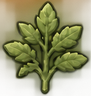
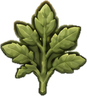
Repaint the build menu, lift the item pictures off their glow, and stack messages above the player card
- prepare-sprite-art.py lifts the wood, stone, berries, herbs and meter icons
  off the soft glow painted behind them, so no murky square shows in a slot.
- The build menu rows use the painted dark slot with the campfire or the tool
  picture for the tier each row would make, and number keys on the count plate.
- The menu never grows past the region banner; the E button hides while it is open.
- Messages are a stack of up to four above the player card (centred above the
  item box on phones) instead of one strip in the middle of the screen.

diff --git a/src/style.css b/src/style.css
@@ -840,8 +840,10 @@ kbd {
   pointer-events: none;
 }
 
-/* The card hugs the left edge of its column and the map the right edge of its own. */
-.game-bottom > .identity {
+/* The card hugs the left edge of its column and the map the right edge of its own. The card sits */
+/* in a wrapper so the messages can stack just above it, wherever the card is. */
+.game-bottom > .identity-area {
+  position: relative;
   justify-self: start;
 }
 
@@ -1029,8 +1031,9 @@ button.slot:hover {
   position: absolute;
   right: 0;
   bottom: calc(100% + 10px);
-  width: 300px;
-  max-height: 70svh;
+  width: 340px;
+  /* The room left between the region's banner (top) and the item box (bottom); past that it scrolls. */
+  max-height: max(180px, calc(100svh - 440px));
   overflow-y: auto;
   padding: 12px;
 }
@@ -1503,12 +1506,24 @@ button.slot:hover {
   color: #fff;
 }
 
-/* A short message such as "+3 wood". It starts invisible and 10px low. */
-.toast {
+/* Short messages such as "+3 wood" stack above the player card, the newest at the bottom. They */
+/* are kept out of the middle of the screen so they never cover the build menu or the E button. */
+.toasts {
   position: absolute;
-  bottom: 286px;
-  left: 50%;
-  transform: translate(-50%, 10px);
+  left: 0;
+  bottom: calc(100% + 6px);
+  display: flex;
+  flex-direction: column;
+  align-items: flex-start;
+  gap: 4px;
+  width: max-content;
+  max-width: min(80vw, 420px);
+  pointer-events: none;
+}
+
+/* One message. It starts invisible and 10px low. */
+.toast {
+  transform: translateY(10px);
   background: #263b31ec;
   color: #f8f5e9;
   padding: 12px 22px;
@@ -1517,16 +1532,13 @@ button.slot:hover {
   font-size: 12px;
   opacity: 0;
   transition: 0.3s;
-  pointer-events: none;
-  text-align: center;
-  max-width: 80vw;
-  width: max-content;
+  text-align: left;
 }
 
 /* When shown, it fades in and slides up into place. */
 .toast.visible {
   opacity: 1;
-  transform: translate(-50%, 0);
+  transform: none;
 }
 
 /* ---- In-game HUD: the painted panels ---- */
@@ -1719,6 +1731,92 @@ button.slot:hover {
   padding: 2px;
 }
 
+.build-menu-title {
+  margin-bottom: 5px;
+  color: #7a552e;
+}
+
+.build-option + .build-menu-title {
+  margin-top: 7px;
+}
+
+/* A row of the menu: a strip of slightly darker paper with a thin brown edge, not a white card, */
+/* so it belongs to the painted paper behind it. */
+.build-option {
+  grid-template-columns: 38px 1fr auto auto;
+  gap: 8px;
+  padding: 3px 8px 3px 4px;
+  border: 1px solid #7a552e4d;
+  border-radius: 4px;
+  background: #7a552e14;
+}
+
+.build-option + .build-option {
+  margin-top: 3px;
+}
+
+.build-option:hover {
+  background: #7a552e30;
+}
+
+.build-option:disabled:hover {
+  background: #7a552e14;
+}
+
+/* Each row's picture sits in the item box's dark painted slot: the painted campfire, or the tool */
+/* at the tier this row would make (ui/hud.js writes the tier on the row). The line icons are not */
+/* drawn. */
+.build-option svg {
+  display: none;
+}
+
+.build-option::before {
+  content: '';
+  width: 38px;
+  height: 38px;
+  background:
+    var(--picture) center / 62% 62% no-repeat,
+    url('../assets/ui/game/item-slot.png') center / 100% 100% no-repeat;
+}
+
+#build-campfire {
+  --picture: url('../assets/world/source/objects/props/campfire.png');
+}
+
+#craft-axe {
+  --picture: url('../assets/ui/game/tool-axe-stone.png');
+}
+
+#craft-axe[data-tier='iron'] {
+  --picture: url('../assets/ui/game/tool-axe-iron.png');
+}
+
+#craft-pickaxe {
+  --picture: url('../assets/ui/game/tool-pickaxe-stone.png');
+}
+
+#craft-pickaxe[data-tier='iron'] {
+  --picture: url('../assets/ui/game/tool-pickaxe-iron.png');
+}
+
+#craft-hammer {
+  --picture: url('../assets/ui/game/tool-hammer-stone.png');
+}
+
+#craft-hammer[data-tier='iron'] {
+  --picture: url('../assets/ui/game/tool-hammer-iron.png');
+}
+
+.build-cost {
+  color: #6b4a2a;
+}
+
+/* While the build menu is open it fills the middle of the screen, where the E button normally */
+/* sits. So the E button waits until the menu closes (the E key itself still works). */
+.game:has(.build-menu:not([hidden])) .interact {
+  display: none;
+}
+
 /* Messages: a cream strip. The wider left slice holds the picture's round wooden boss. */
 .toast {
   border-width: 17px 17px 17px 52px;
@@ -1830,8 +1928,10 @@ button.slot:hover {
   filter: brightness(1.15) drop-shadow(0 3px 6px #1f311b55);
 }
 
-/* The J key on the journal button is drawn on the little count plate. */
+/* The J key on the journal button, and the number keys in the build menu, are drawn on the */
+/* little count plate. */
 .game-actions kbd,
+.build-option kbd,
 .key-strip kbd {
   border: 0;
   padding: 4px 7px 5px;
@@ -2406,8 +2506,14 @@ dialog::backdrop {
   .build-option kbd {
     display: none;
   }
+  /* A phone has little room between the banner and the item box, so the rows drop their small */
+  /* print and the menu is kept shorter; it scrolls by touch when it must. */
   .build-menu {
     width: 270px;
+    max-height: max(180px, calc(100svh - 590px));
+  }
+  .build-option small {
+    display: none;
   }
   .minimap {
     position: absolute;
@@ -2446,8 +2552,18 @@ dialog::backdrop {
     font-size: 10px;
     max-width: 90vw;
   }
-  .toast {
+  /* On phones the card is at the top, so the wrapper steps aside and the messages stack in the */
+  /* middle, above the item box. */
+  .identity-area {
+    display: contents;
+  }
+  .toasts {
+    left: 50%;
     bottom: 334px;
+    transform: translateX(-50%);
+    align-items: center;
+  }
+  .toast {
     font-size: 11px;
   }
   .build-bar {

diff --git a/src/ui/layout.js b/src/ui/layout.js
@@ -234,20 +234,25 @@ export function mountLayout(app) {
       <!-- The bottom bar: the player card on the left, the item box and Build button in the middle,
            and the round map on the right. It is a grid, so the three never overlap. -->
       <div class="game-bottom">
-        <!-- Who you are, the day clock and your survival meters. -->
-        <div class="identity hud-panel">
-          <span id="hud-portrait" class="hud-portrait"></span>
-          <span id="day-dial" class="day-dial" role="img"
-            ><i class="day-dial-face"></i><i class="day-dial-rim"></i><i class="day-dial-pin"></i
-          ></span>
-          <div class="identity-text">
-            <span id="hud-name" class="hud-name"></span
-            ><span id="identity-status" class="identity-status" data-phase="day"
-              ><span class="sun">${icon('sun')}</span><span class="moon">${icon('moon')}</span
-              ><span id="clock"></span
+        <!-- Who you are, the day clock and your survival meters. Short pop-up messages such as
+             "+3 wood" stack up just above the card (ui/hud.js adds and removes them); screen readers
+             announce them too. -->
+        <div class="identity-area">
+          <div id="toasts" class="toasts" role="status"></div>
+          <div class="identity hud-panel">
+            <span id="hud-portrait" class="hud-portrait"></span>
+            <span id="day-dial" class="day-dial" role="img"
+              ><i class="day-dial-face"></i><i class="day-dial-rim"></i><i class="day-dial-pin"></i
             ></span>
-            <div class="meters">
-              ${meter('health', 'Health', healthIconUrl)}${meter('hunger', 'Hunger', hungerIconUrl)}${meter('warmth', 'Warmth', warmthIconUrl)}
+            <div class="identity-text">
+              <span id="hud-name" class="hud-name"></span
+              ><span id="identity-status" class="identity-status" data-phase="day"
+                ><span class="sun">${icon('sun')}</span><span class="moon">${icon('moon')}</span
+                ><span id="clock"></span
+              ></span>
+              <div class="meters">
+                ${meter('health', 'Health', healthIconUrl)}${meter('hunger', 'Hunger', hungerIconUrl)}${meter('warmth', 'Warmth', warmthIconUrl)}
+              </div>
             </div>
           </div>
         </div>
@@ -349,9 +354,6 @@ export function mountLayout(app) {
           ><button data-move="right" aria-label="Move east">→</button>
         </div>
       </div>
-
-      <!-- Short pop-up messages such as "+3 wood". Screen readers announce them too. -->
-      <div id="toast" class="toast" role="status"></div>
     </section>
 
     <!-- Pause menu. Any open dialog pauses the game. -->

diff --git a/src/ui/hud.js b/src/ui/hud.js
@@ -25,6 +25,9 @@ import { canCraft, nextTier, toolName, CRAFT_PREFIX } from '../actions/craft.js'
 import { meterTrends } from '../actions/survive.js';
 import { $ } from './layout.js';
 
+// How many pop-up messages can show at once above the player card; an older one makes room.
+const TOAST_STACK = 4;
+
 // Turns a supply's verb into its "-ing" form for the busy button, e.g. Chop → Chopping.
 const DOING = {
   Chop: 'Chopping',
@@ -166,21 +169,31 @@ function busyLabel(state, animator) {
  * pop up a message, a way to redraw the HUD, and ways to show and hide the controls strip.
  */
 export function createHud(session) {
-  let toastTimer;
   let keyStripTimer;
 
   /**
-   * Shows a short message at the bottom of the screen for about three seconds.
+   * Shows a short message above the player card for about three seconds.
    *
-   * A new message replaces the old one and restarts the timer, so messages never pile up.
+   * Messages stack like sticky notes: a new one is added under the others, and each fades out on
+   * its own timer. Only the newest few are kept (TOAST_STACK), so a burst of messages can't climb
+   * up the screen, and the same message twice in a row just shows once.
    *
    * @param {string} message - The text to show.
    */
   function notify(message) {
-    clearTimeout(toastTimer);
-    $('toast').textContent = message;
-    $('toast').classList.add('visible');
-    toastTimer = setTimeout(() => $('toast').classList.remove('visible'), 3200);
+    const stack = $('toasts');
+    if (stack.lastElementChild?.textContent === message) stack.lastElementChild.remove();
+    while (stack.children.length >= TOAST_STACK) stack.firstElementChild.remove();
+
+    const toast = document.createElement('div');
+    toast.className = 'toast';
+    toast.textContent = message;
+    stack.append(toast);
+
+    // The class is added a frame later, so the note fades and slides in instead of just appearing.
+    requestAnimationFrame(() => toast.classList.add('visible'));
+    setTimeout(() => toast.classList.remove('visible'), 3200);
+    setTimeout(() => toast.remove(), 3600);
   }
 
   /**
@@ -364,6 +377,8 @@ export function createHud(session) {
       option.querySelector('.craft-cost').textContent = check.cost
         ? costWords(check.cost)
         : 'Owned';
+      // The tier tells the stylesheet which painted picture to show: the stone tool or the iron one.
+      option.dataset.tier = check.tier ?? 'iron';
       option.classList.toggle('short', check.reason === 'cost');
       option.disabled = check.reason === 'owned';
       option.title = check.ok ? '' : check.message;

diff --git a/tools/prepare-sprite-art.py b/tools/prepare-sprite-art.py
@@ -23,7 +23,7 @@ Run: python tools/prepare-sprite-art.py, then python tools/build-map.py
 """
 import json, os, shutil
 import numpy as np
-from PIL import Image
+from PIL import Image, ImageFilter
 
 ROOT = os.path.join(os.path.dirname(__file__), '..', 'assets')
 SRC = os.path.join(ROOT, 'world', 'source')
@@ -234,9 +234,41 @@ def piece_of(sheet, box, size):
     cut = sheet[y0 - 2:y1 + 3, x0 - 2:x1 + 3]
     return shrink(cut, size / max(cut.shape[:2]))
 
+# The small pictures (wood, stone, berries, herbs, heart, fork and spoon, flame) were painted with a soft glow
+# behind them, which showed in the game as a murky square around each one. These are lifted off that glow.
+LIFTED = ('item-wood', 'item-stone', 'item-food', 'item-herbs',
+          'status-icon-health', 'status-icon-hunger', 'status-icon-warmth')
+LIFT_EDGE = 16   # how sharp a change in colour must be to count as a picture's outline (the glow is far softer)
+
+# Lifts a small picture off the soft glow painted behind it. The glow changes colour slowly and the picture's
+# outline changes sharply, so we start at the crop's rim and spread inward over every slowly-changing pixel,
+# like water filling a tray until it meets a wall. Whatever the water reached is glow and turns see-through.
+def lifted(cut):
+    c = cut.astype(float)
+    solid = (c[:, :, :3] * c[:, :, 3:] / 255).astype('uint8')
+    soft = np.asarray(Image.fromarray(solid).filter(ImageFilter.GaussianBlur(1))).astype(float)
+    gy, gx = np.gradient(soft, axis=(0, 1))
+    calm = np.pad(np.sqrt(gx ** 2 + gy ** 2).sum(axis=2) <= LIFT_EDGE, 1, constant_values=True)
+    glow = np.zeros_like(calm); glow[0] = glow[-1] = True; glow[:, 0] = glow[:, -1] = True
+    while True:
+        grown = glow.copy()
+        grown[1:] |= glow[:-1]; grown[:-1] |= glow[1:]; grown[:, 1:] |= glow[:, :-1]; grown[:, :-1] |= glow[:, 1:]
+        grown &= calm
+        if (grown == glow).all(): break
+        glow = grown
+    # Thin specks left outside the outline are rubbed off, and the cut edge is softened a little.
+    keep = Image.fromarray((~glow[1:-1, 1:-1] * 255).astype('uint8'))
+    keep = keep.filter(ImageFilter.MinFilter(5)).filter(ImageFilter.MaxFilter(5)).filter(ImageFilter.GaussianBlur(0.7))
+    out = cut.copy(); out[:, :, 3] = np.minimum(cut[:, :, 3], np.asarray(keep))
+    return trimmed(out)
+
 source = os.path.join(ROOT, 'ui', 'normal', 'status-inventory-components.png')
 status_sheet = load(source)
 for name, (x0, y0, x1, y1, size) in STATUS.items():
+    if name in LIFTED:
+        art = lifted(status_sheet[y0 - 12:y1 + 13, x0 - 12:x1 + 13])
+        save(shrink(art, size / max(art.shape[:2])), os.path.join(UI, name + '.png'), source)
+        continue
     save(piece_of(status_sheet, (x0, y0, x1, y1), size), os.path.join(UI, name + '.png'), source)
 
 source = os.path.join(ROOT, 'ui', 'character-portraits-normal-winter.png')
